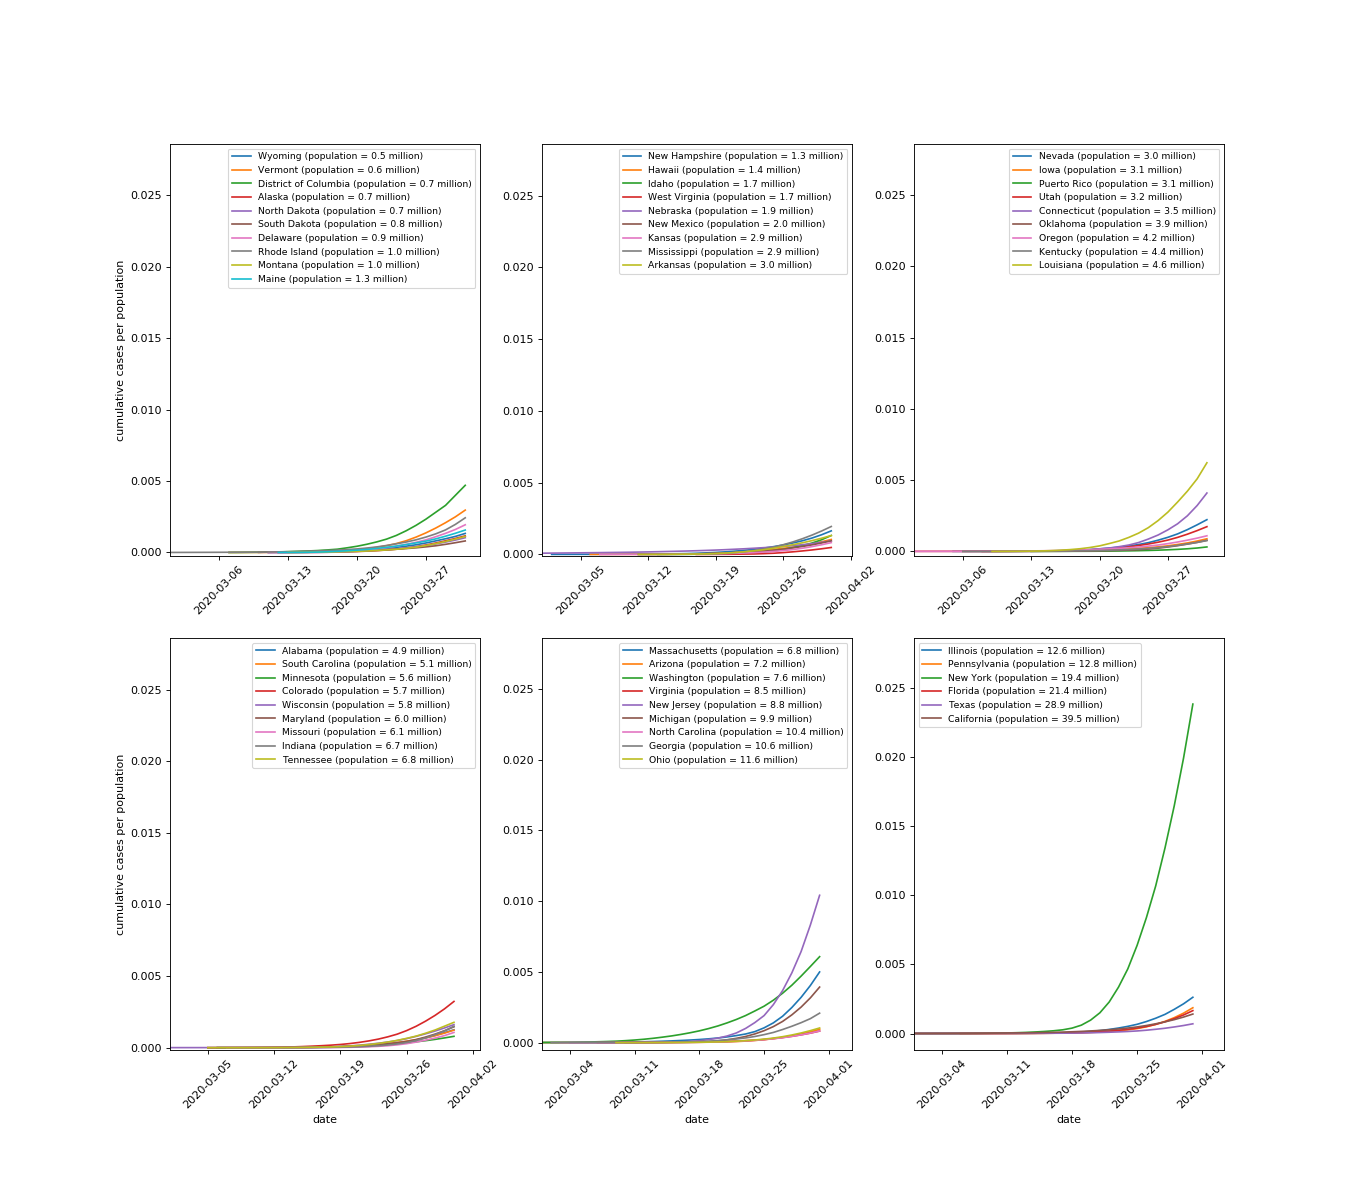
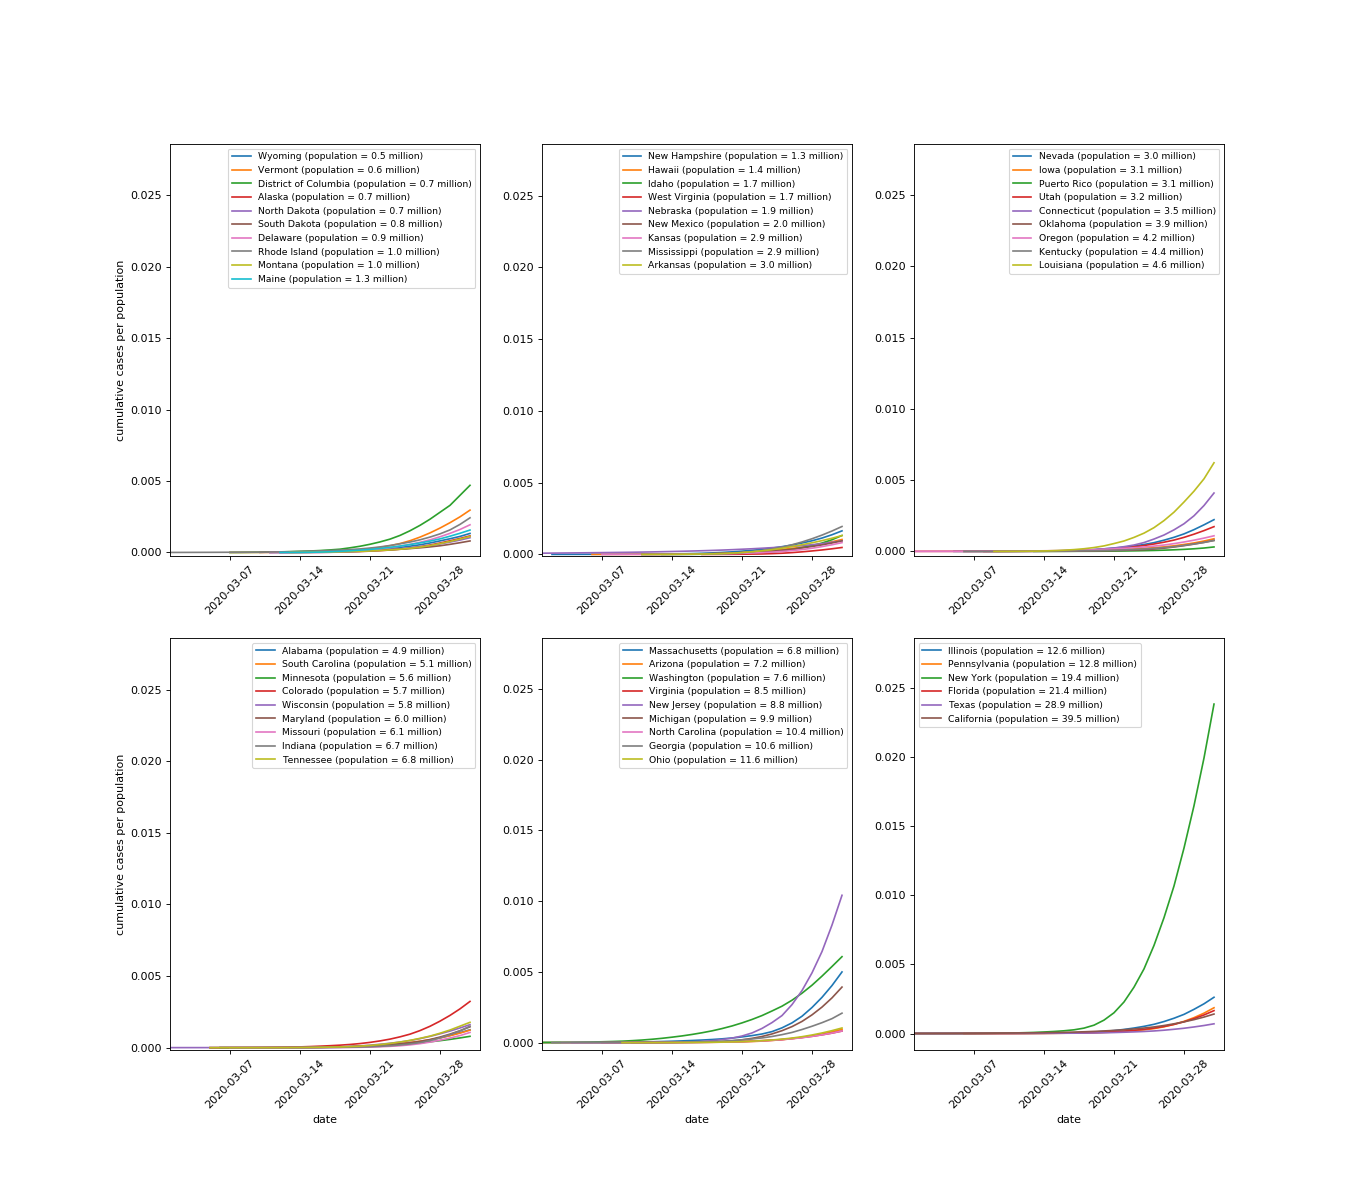
solidified x axis labels

diff --git a/mkfigs.py b/mkfigs.py
@@ -108,7 +108,7 @@ for norm in [False, True]:
                 i=i+1
                 ax=plt.subplot(2,np.ceil(n/2),i)    
                 ax.set_ylim(top= most*1.2)
-                ax.set_xlim(left=datetime.date(2020,3,1))
+                ax.set_xlim(left=datetime.date(2020,3,1),right=datetime.date.today())
             
             #plt.show()
             plt.savefig("figures/"+labelstring+".png")
